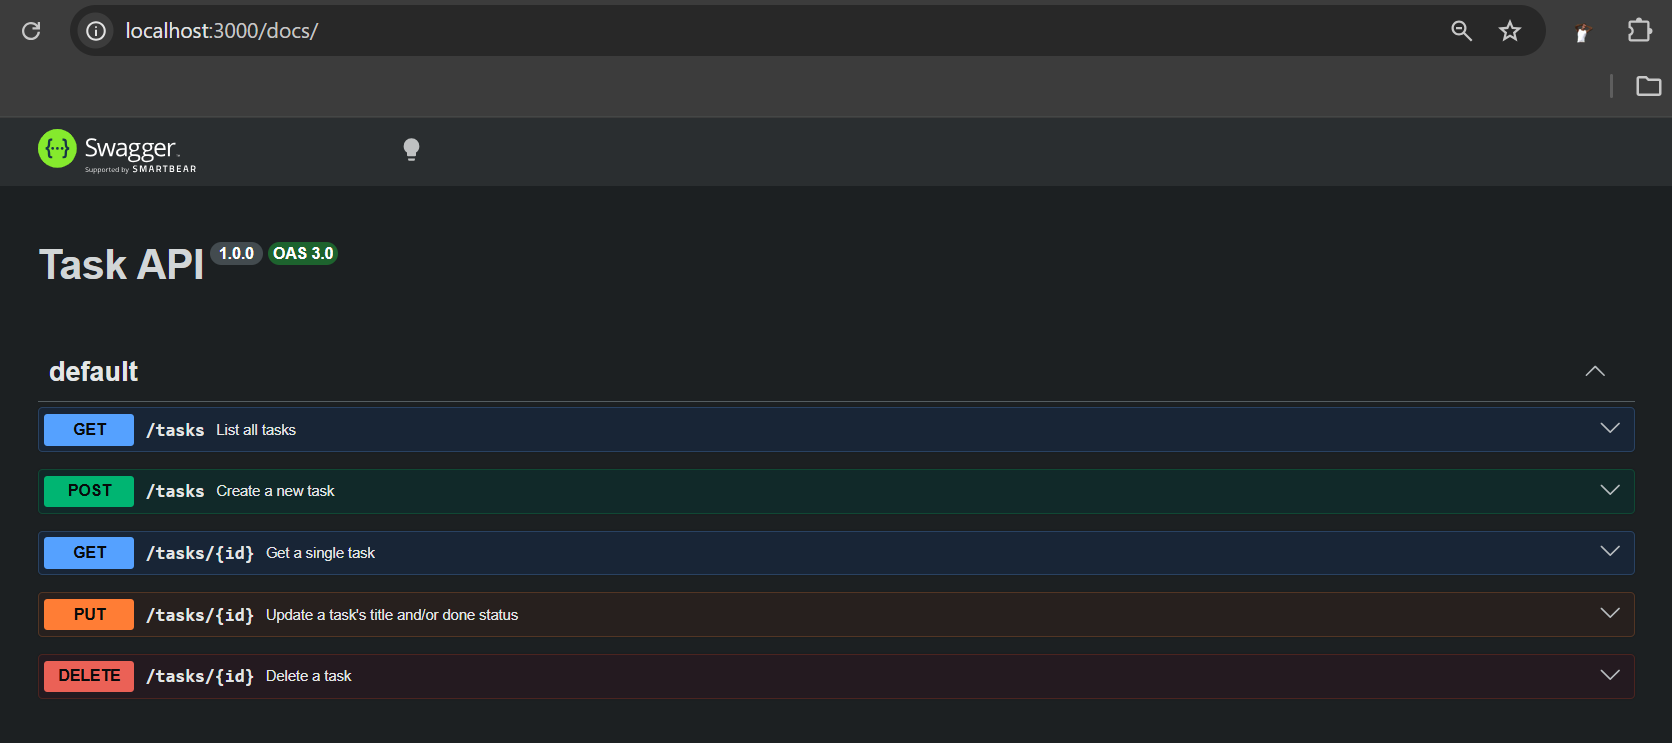
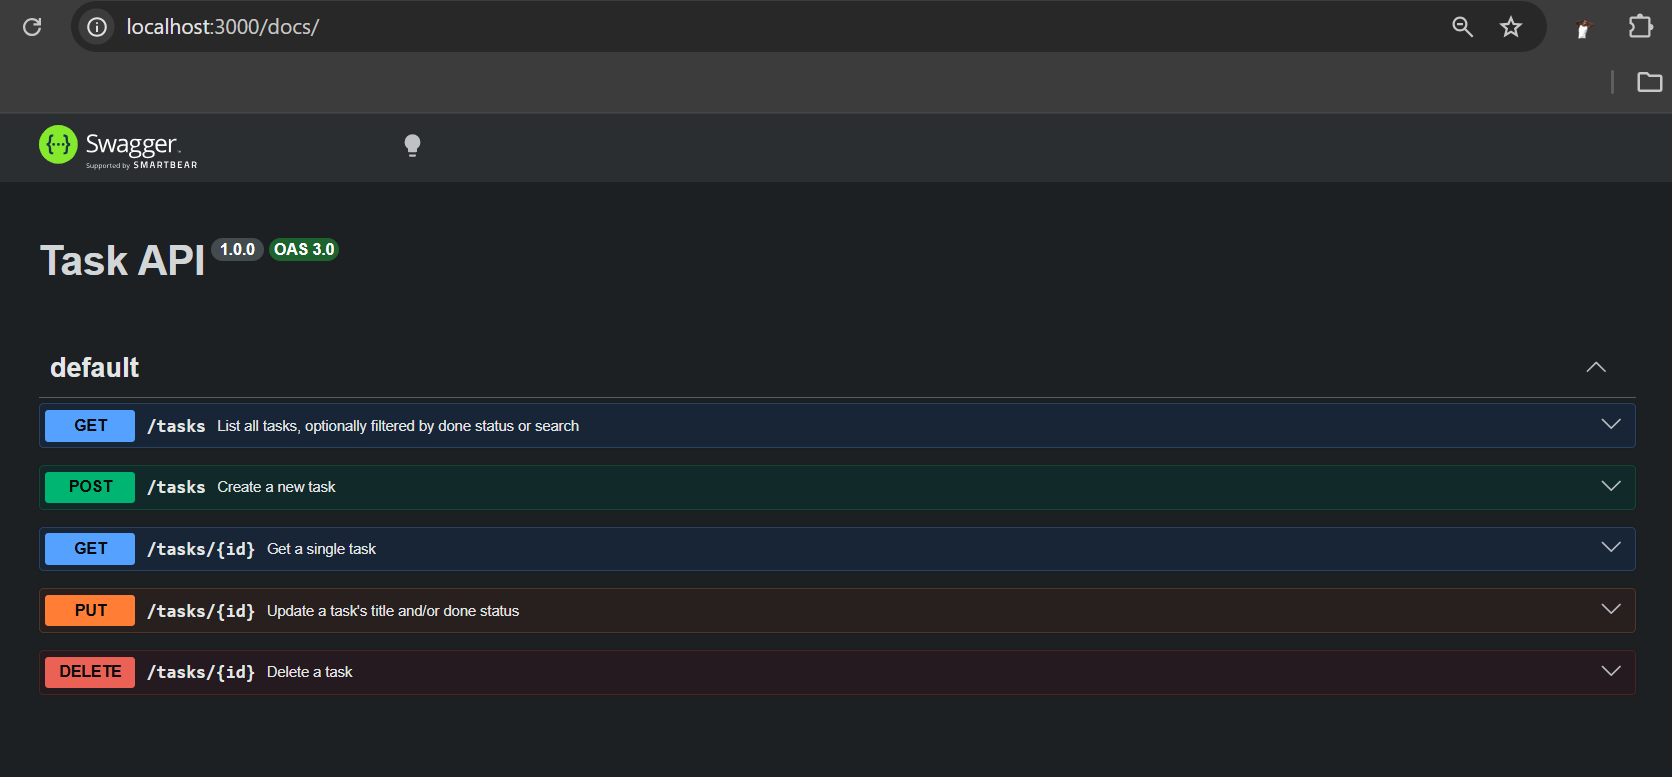
added optional extras

diff --git a/server.js b/server.js
@@ -8,11 +8,13 @@ const port = 3000
 app.use(express.json())
 app.use('/docs', swaggerUi.serve, swaggerUi.setup(openapiDocument))
 
-let tasks = [
+const initialTasks = [
     {id: 1, title: 'Complete Express assignment', done: true},
     {id: 2, title: 'Review JavaScript arrays', done: false},
     {id: 3, title: 'Push code to GitHub', done: true},
 ]
+
+let tasks = [...initialTasks]
 
 app.get('/', (req, res)=>{
     res.json({name: "Task API", version: "1.0", endpoints: ["/tasks"]})
@@ -23,7 +25,20 @@ app.get('/health', (req, res)=>{
 })
 
 app.get('/tasks', (req, res)=>{
-    res.status(200).json(tasks)
+
+    let {search, done} = req.query
+    let result = tasks
+
+    if(done !== undefined){
+        const isDone = done === 'true' 
+        result = result.filter(task => task.done === isDone)
+    }
+
+    if(search !== undefined){
+        search = search.toLowerCase().trim()
+        result = result.filter(task => task.title.toLowerCase().includes(search))
+    }
+    res.status(200).json(result)
 })
 
 app.get('/tasks/:id', (req, res)=>{
@@ -35,6 +50,14 @@ app.get('/tasks/:id', (req, res)=>{
     }
 
     return res.status(200).json(task)
+})
+
+app.get('/stats', (req, res)=>{
+    const total = tasks.length
+    const done = tasks.filter(task => task.done === true).length
+    const open = total - done
+
+    res.status(200).json({total, done, open})
 })
 
 app.post('/tasks', (req, res)=>{
@@ -56,6 +79,11 @@ app.post('/tasks', (req, res)=>{
 
     res.status(201).json(task)
 
+})
+
+app.post('/reset', (req, res)=>{
+    tasks = [...initialTasks]
+    res.status(200).json({tasks})
 })
 
 app.put('/tasks/:id', (req, res)=>{
